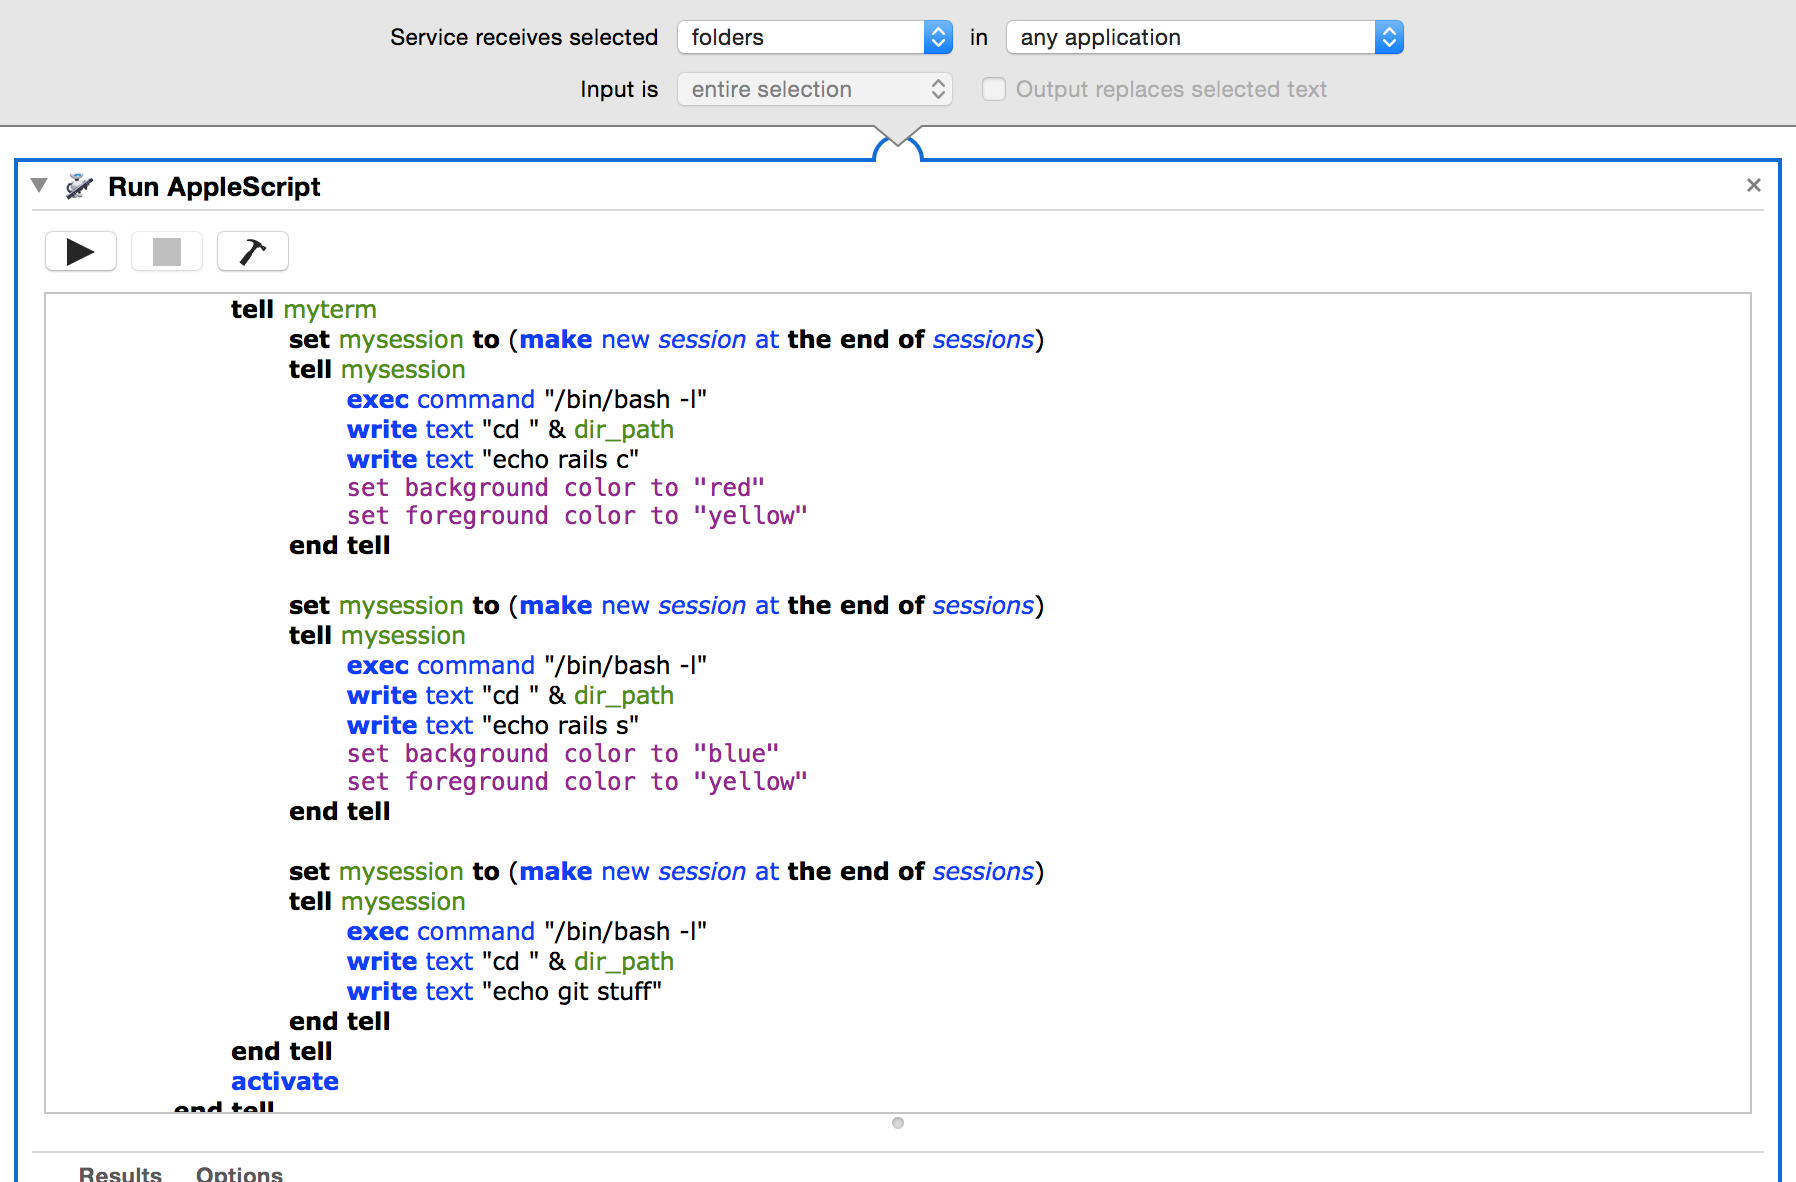
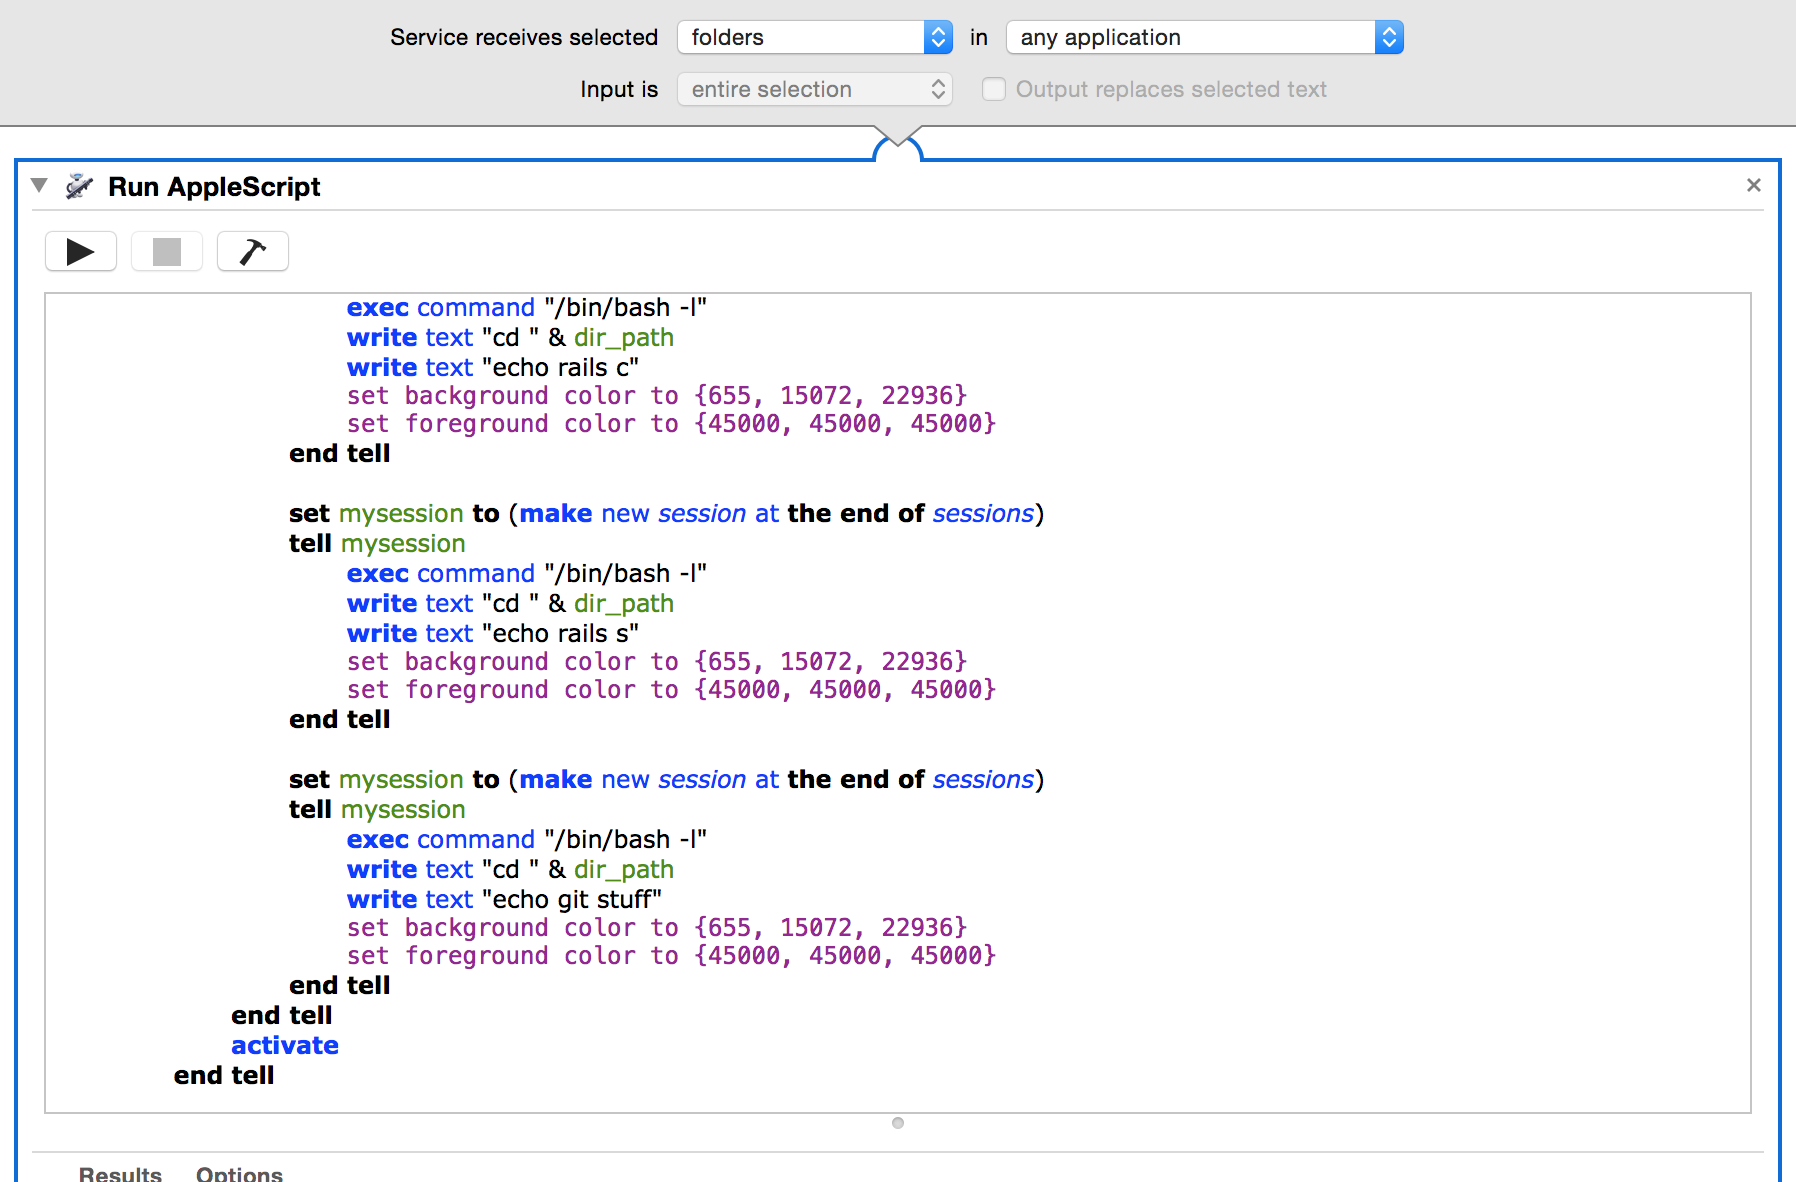
modified documentation; added colors

Changed region(s): [[0.0935, 0.2437, 0.5924, 0.9442]]

diff --git a/README.md b/README.md
@@ -1,13 +1,11 @@
 # ArcticSandCastle
 Workspace while I'm homeless
 
-
 Service using applescript created in automator
 
 	Setup Rails Environment:
 	
 		r-click directory and choose service
-		
 		*creates a new terminal window with 3 tabs navigated to clicked directory
 		
 			rails c
@@ -16,4 +14,19 @@ Service using applescript created in automator
 			
 			empty tab for git interactions
 			
-			
+*****
+
+How to install/use
+
+Open a terminal window
+
+Navigate to /Users/*your_user_name*/Library/Services 
+	cd "~/Library/Services"
+	*Note Library is a hidden folder, so you may navigate to this in Finder by pressing cmd + shift + g specifying "~/Library/Services"
+
+Within this directory, create a folder titled "Setup Rails Env.workflow" and navigate to it
+	mkdir "Setup Rails Env.workflow"
+	cd "Setup Rails Env.worfklow"
+
+Clone my repo into this folder. 
+
